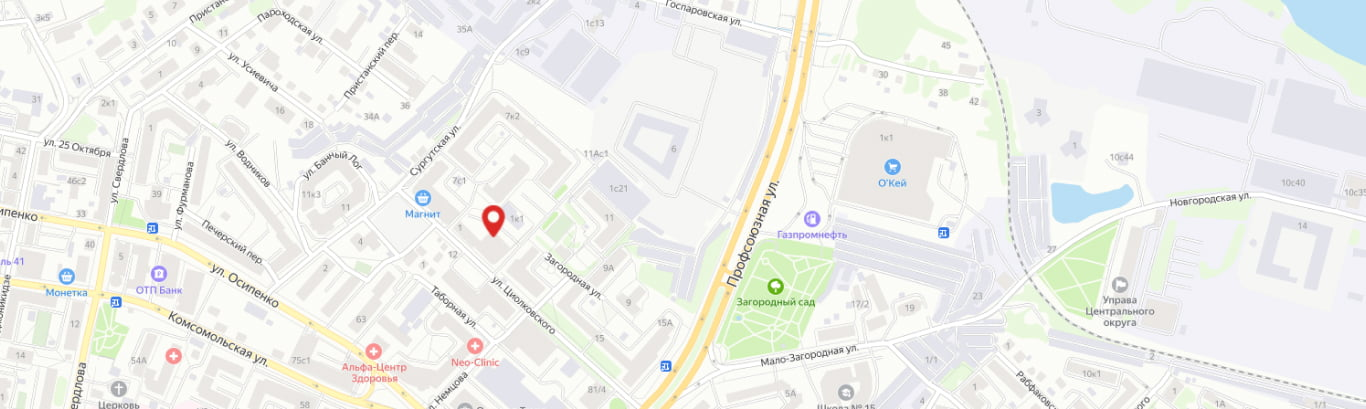
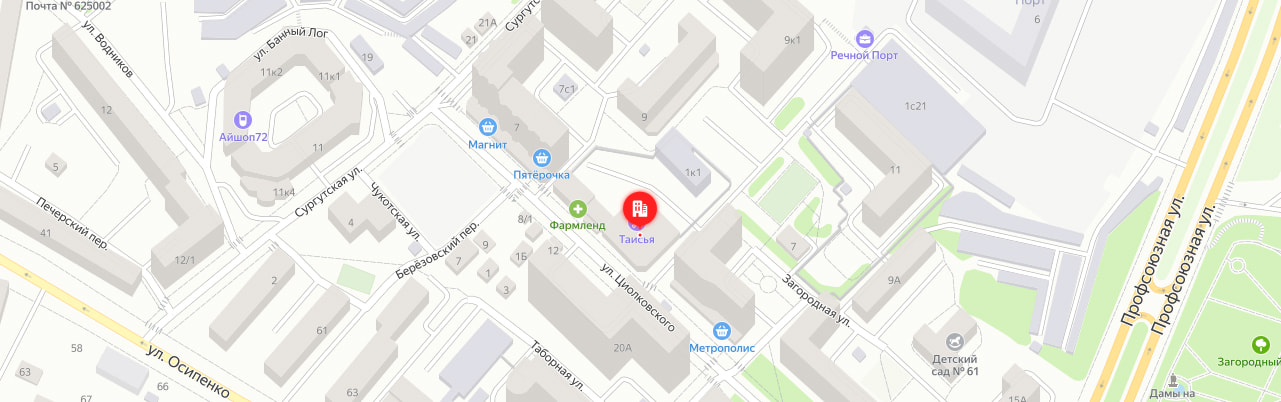
add improved map

diff --git a/src/js/map.js b/src/js/map.js
@@ -1,0 +1,123 @@
+//Переменная для включения/отключения индикатора загрузки
+var spinner = $('.map').children('.loader');
+//Переменная для определения была ли хоть раз загружена Яндекс.Карта (чтобы избежать повторной загрузки при наведении)
+var check_if_load = false;
+//Необходимые переменные для того, чтобы задать координаты на Яндекс.Карте
+var myMapTemp, myPlacemarkTemp;
+ 
+//Функция создания карты сайта и затем вставки ее в блок с идентификатором &#34;map-yandex&#34;
+function init () {
+  var myMapTemp = new ymaps.Map("map__yandex", {
+    center: [57.158760, 65.560720], // координаты центра на карте
+    zoom: 17, // коэффициент приближения карты
+    controls: ['zoomControl', 'fullscreenControl'] // выбираем только те функции, которые необходимы при использовании
+  });
+  var myPlacemarkTemp = new ymaps.Placemark([57.158760, 65.560720], {
+    }, {
+      // Опции.
+      // Необходимо указать данный тип макета.
+      iconLayout: 'default#imageWithContent',
+      // Своё изображение иконки метки.
+      iconImageHref: "img/icon-mark.svg",
+      // Размеры метки.
+      iconImageSize: [50, 50],
+      // Смещение левого верхнего угла иконки относительно
+      // её "ножки" (точки привязки).
+      iconImageOffset: [-25, -50],
+  });
+  myMapTemp.geoObjects.add(myPlacemarkTemp); // помещаем флажок на карту
+ 
+  // Получаем первый экземпляр коллекции слоев, потом первый слой коллекции
+  var layer = myMapTemp.layers.get(0).get(0);
+ 
+  spinner.removeClass('is-active');
+  // Решение по callback-у для определения полной загрузки карты
+  // waitForTilesLoad(layer).then(function() {
+  //   // Скрываем индикатор загрузки после полной загрузки карты
+  // });
+}
+ 
+// Функция для определения полной загрузки карты (на самом деле проверяется загрузка тайлов) 
+function waitForTilesLoad(layer) {
+  return new ymaps.vow.Promise(function (resolve, reject) {
+    var tc = getTileContainer(layer), readyAll = true;
+    tc.tiles.each(function (tile, number) {
+      if (!tile.isReady()) {
+        readyAll = false;
+      }
+    });
+    if (readyAll) {
+      resolve();
+    } else {
+      tc.events.once("ready", function() {
+        resolve();
+      });
+    }
+  });
+}
+ 
+function getTileContainer(layer) {
+  for (var k in layer) {
+    if (layer.hasOwnProperty(k)) {
+      if (
+        layer[k] instanceof ymaps.layer.tileContainer.CanvasContainer
+        || layer[k] instanceof ymaps.layer.tileContainer.DomContainer
+      ) {
+        return layer[k];
+      }
+    }
+  }
+  return null;
+}
+ 
+// Функция загрузки API Яндекс.Карт по требованию (в нашем случае при наведении)
+function loadScript(url, callback){
+  var script = document.createElement("script");
+ 
+  if (script.readyState){  // IE
+    script.onreadystatechange = function(){
+      if (script.readyState == "loaded" ||
+              script.readyState == "complete"){
+        script.onreadystatechange = null;
+        callback();
+      }
+    };
+  } else {  // Другие браузеры
+    script.onload = function(){
+      callback();
+    };
+  }
+ 
+  script.src = url;
+  document.getElementsByTagName("head")[0].appendChild(script);
+}
+ 
+// Основная функция, которая проверяет когда мы навели на блок с классом &#34;ymap-container&#34;
+var ymap = function() {
+  $('.map').mouseenter(function(){
+      if (!check_if_load) { // проверяем первый ли раз загружается Яндекс.Карта, если да, то загружаем
+ 
+	  	// Чтобы не было повторной загрузки карты, мы изменяем значение переменной
+        check_if_load = true; 
+ 
+		// Показываем индикатор загрузки до тех пор, пока карта не загрузится
+        spinner.addClass('is-active');
+ 
+		// Загружаем API Яндекс.Карт
+        loadScript("https://api-maps.yandex.ru/2.1/?lang=ru_RU&amp;loadByRequire=1", function(){
+           // Как только API Яндекс.Карт загрузились, сразу формируем карту и помещаем в блок с идентификатором &#34;map-yandex&#34;
+           ymaps.load(init);
+           $(".map__img").addClass("map__img--hidden");
+           $(".map__yandex").removeClass("map__yandex--hidden");
+        });                
+      }
+    }
+  );  
+}
+ 
+$(function() {
+ 
+  //Запускаем основную функцию
+  ymap();
+ 
+});

diff --git a/src/scss/blocks/loader.scss b/src/scss/blocks/loader.scss
@@ -1,0 +1,56 @@
+/* Индикатор загрузки, который показывается до загрузки карты */
+.loader {
+    position: absolute;
+    z-index: 15;
+    top: -100%;
+    left: 0;
+    box-sizing: border-box;
+    width: 100%;
+    height: 100%;
+    overflow: hidden;
+    color: #000000;
+    transition: opacity .7s ease;
+    opacity: 0;
+    background-color: rgba(0,0,0,.55);
+  }
+   
+  .loader:after,
+  .loader:before {
+    box-sizing: border-box;
+  }
+   
+  .loader.is-active {
+    top: 0;
+    opacity: 1;
+  }
+   
+  .loader-default:after {
+    position: absolute;
+    top: calc(50% - 24px);
+    left: calc(50% - 24px);
+    width: 48px;
+    height: 48px;
+    content: '';
+    animation: rotation 1s linear infinite;
+    border: solid 8px #ffffff;
+    border-left-color: transparent;
+    border-radius: 50%;
+  }
+   
+  @keyframes rotation {
+    from {
+      transform: rotate(0);
+    }
+    to {
+      transform: rotate(359deg);
+    }
+  }
+   
+  @keyframes blink {
+    from {
+      opacity: .5;
+    }
+    to {
+      opacity: 1;
+    }
+  }

diff --git a/src/scss/blocks/map.scss b/src/scss/blocks/map.scss
@@ -1,0 +1,27 @@
+.map {
+    // background: url('../img/map.jpg') #ffffff no-repeat;
+    // background-position: center center;
+    // background-size: cover;
+    position: relative;
+    overflow: hidden;
+    cursor: pointer;
+}
+
+.map__img {
+    width: 100%;
+    height: 400px;
+    object-fit: cover;
+    display: block;
+
+    &--hidden {
+        display: none;
+    }
+}
+
+.map__yandex {
+    height: 400px;
+
+    &--hidden {
+        height: 0;
+    }
+}

diff --git a/src/scss/blocks/contacts.scss b/src/scss/blocks/contacts.scss
@@ -30,6 +30,10 @@
         background-position: -250px;
         height: 350px;
     }
+
+    @media (min-resolution: 144dpi), (min-resolution: 1.5dppx) {
+        background-image: url("../img/map@2x.jpg");
+    }
 }
 
 .contacts__info {
